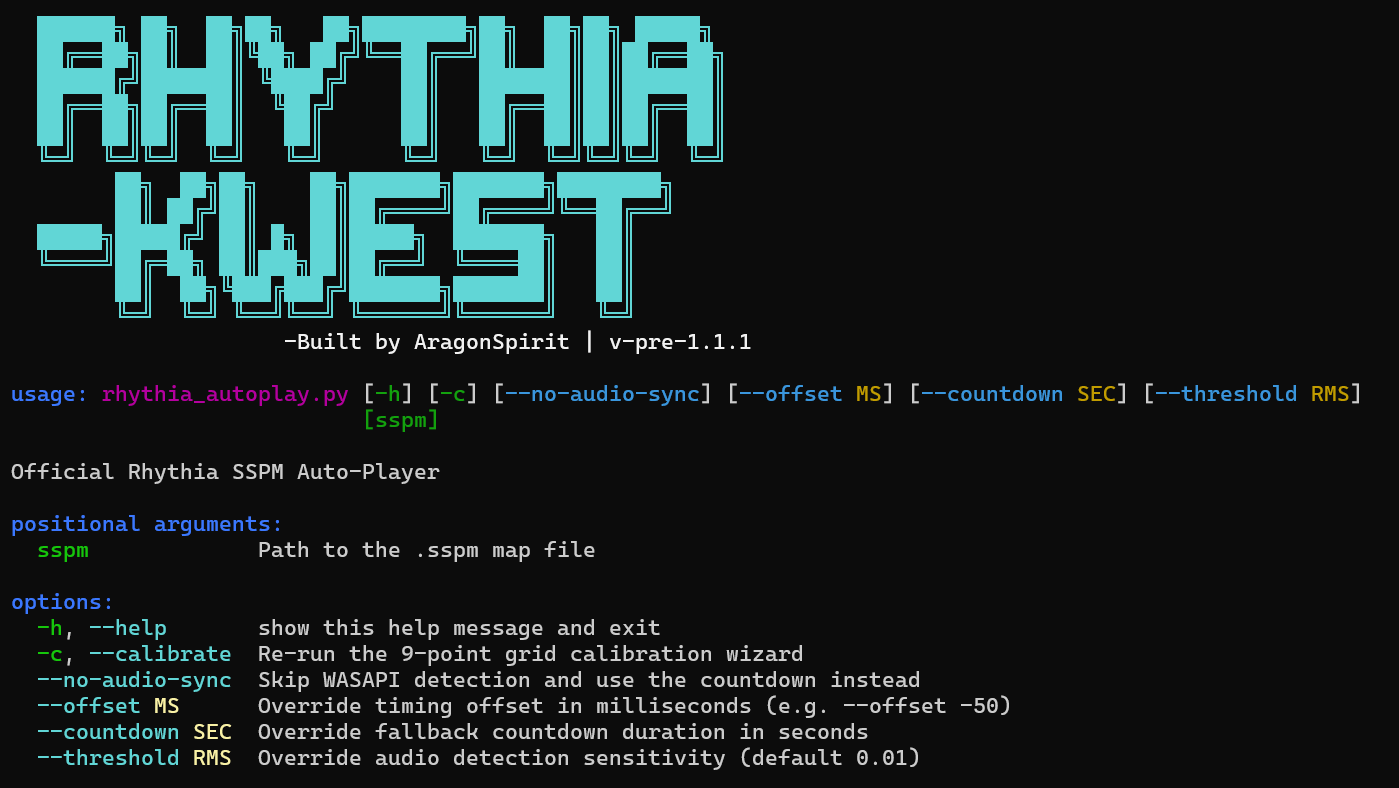
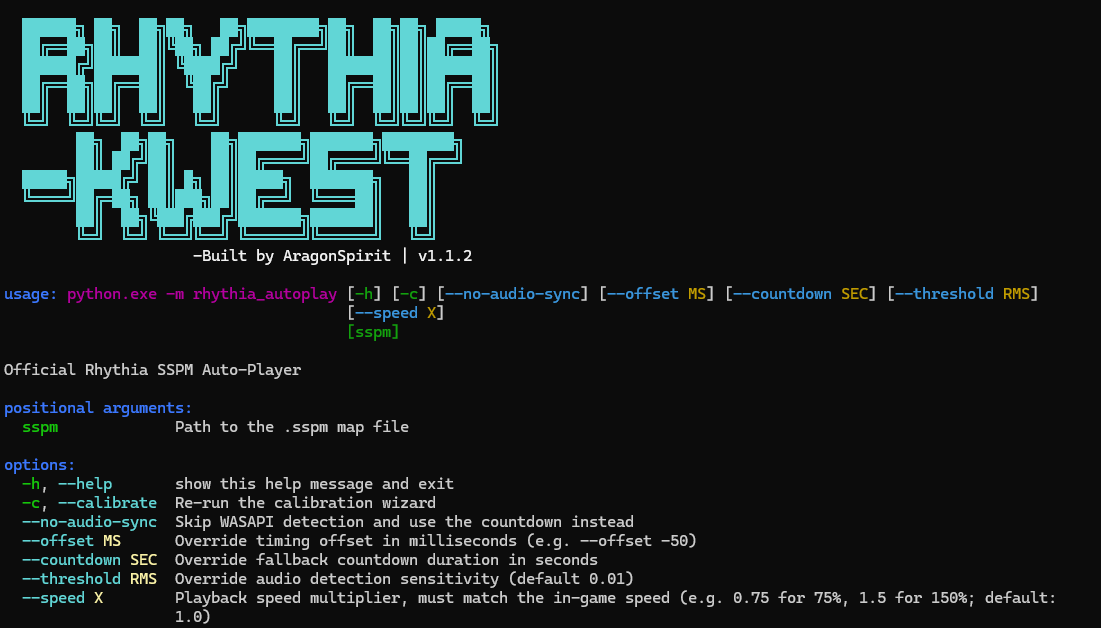
v1.1.2
Added a speed flag

Changed region(s): [[0.0, 0.0, 0.9882, 0.5446], [0.0, 0.6354, 0.9573, 0.9984], [0.0, 0.5748, 0.3088, 0.6354]]

diff --git a/rhythia_autoplay/main.py b/rhythia_autoplay/main.py
@@ -1,9 +1,3 @@
-
-#  ENTRY POINT
-#  Parses CLI arguments, prints the banner, runs calibration if needed,
-#  loads the map, and launches the AutoPlayer.
-
-
 import argparse
 import os
 import sys
@@ -41,7 +35,7 @@ def _print_banner() -> None:
     print(c("  ╚════╝██╔═██╗ ██║███╗██║██╔══╝  ╚════██║   ██║   ", CYAN))
     print(c("        ██║  ██╗╚███╔███╔╝███████╗███████║   ██║   ", CYAN))
     print(c("        ╚═╝  ╚═╝ ╚══╝╚══╝ ╚══════╝╚══════╝   ╚═╝  ", CYAN))
-    print(c("                     -Built by AragonSpirit | v1.1.1", BOLD))
+    print(c("                     -Built by AragonSpirit | v1.1.2", BOLD))
     print()
 
 
@@ -67,6 +61,9 @@ def main() -> None:
                         help="Override fallback countdown duration in seconds")
     parser.add_argument("--threshold", type=float, default=None, metavar="RMS",
                         help="Override audio detection sensitivity (default 0.01)")
+    parser.add_argument("--speed", type=float, default=1.0, metavar="X",
+                        help="Playback speed multiplier, must match the in-game speed "
+                             "(e.g. 0.75 for 75%%, 1.5 for 150%%; default: 1.0)")
     args = parser.parse_args()
 
     _print_banner()
@@ -76,6 +73,10 @@ def main() -> None:
     if args.offset    is not None: cfg["offset_ms"]      = args.offset
     if args.countdown is not None: cfg["countdown"]       = args.countdown
     if args.threshold is not None: cfg["audio_threshold"] = args.threshold
+
+    if args.speed <= 0:
+        print(c(f"\n  [ERROR] --speed must be greater than 0 (got {args.speed}).", RED))
+        sys.exit(1)
 
     # --- Calibration ---
     needs_calib = not os.path.exists(CONFIG_FILE) or not cfg.get("cell_centers")
@@ -124,6 +125,7 @@ def main() -> None:
     print(c(f"    Calibration  : {calib_pts} / 9 points captured", DIM))
     print(c(f"    Audio sync   : {audio_status}", DIM))
     print(c(f"    Timing offset: {cfg['offset_ms']} ms", DIM))
+    print(c(f"    Speed        : {args.speed}x", DIM))
     print(c(f"    Quit: F3  |  Pause / Resume: ESC", DIM))
     print()
 
@@ -137,7 +139,7 @@ def main() -> None:
     # --- Run ---
     player = AutoPlayer(notes, cfg)
     try:
-        player.run(use_audio_sync=not args.no_audio_sync)
+        player.run(use_audio_sync=not args.no_audio_sync, speed=args.speed)
     except KeyboardInterrupt:
         print(c("\n  Interrupted via Ctrl+C.", YELLOW))
     except pyautogui.FailSafeException:

diff --git a/rhythia_autoplay/player.py b/rhythia_autoplay/player.py
@@ -1,9 +1,3 @@
-
-#  AUTO-PLAYER
-#  Handles hotkeys, precise timing (with pause support), sync strategies,
-#  and the main per-note click loop.
-
-
 import threading
 import time
 
@@ -106,7 +100,27 @@ class AutoPlayer:
         print(c("  GO!                  ", GREEN))
         return time.perf_counter()
 
-    def run(self, use_audio_sync: bool = True) -> None:
+    def run(self, use_audio_sync: bool = True, speed: float = 1.0) -> None:
+        """
+        Play the map.
+
+        Parameters
+        ----------
+        use_audio_sync : bool
+            When True, attempt WASAPI loopback detection before falling back
+            to the countdown timer.
+        speed : float
+            Playback speed multiplier.  Must match the in-game speed you set
+            in Rhythia before starting the map.
+            - 1.0  → normal speed (default)
+            - 0.75 → 75 % speed  (slower, notes fire later)
+            - 1.5  → 150 % speed (faster, notes fire earlier)
+            Note timestamps are divided by this value, so the bot fires each
+            click proportionally sooner or later.
+        """
+        if speed <= 0:
+            raise ValueError(f"speed must be > 0, got {speed}")
+
         offset_s = self.cfg["offset_ms"] / 1000.0
 
         # Determine t=0 (the moment the song begins).
@@ -128,7 +142,9 @@ class AutoPlayer:
             if self._stop.is_set():
                 break
 
-            target_perf = start + (ms / 1000.0) + offset_s
+            # Divide the note timestamp by the speed multiplier so that at 2×
+            # a note originally at t=1000 ms fires at t=500 ms, etc.
+            target_perf = start + (ms / 1000.0 / speed) + offset_s
             if not self._wait_until(target_perf):
                 break
 

diff --git a/rhythia_autoplay/coordinates.py b/rhythia_autoplay/coordinates.py
@@ -1,9 +1,4 @@
 
-#  COORDINATE MAPPING
-#  Converts SSPM note coordinates to screen pixel positions.
-
-
-
 def note_to_screen(x: float, y: float, cfg: dict) -> tuple[int, int]:
     """
     Convert an SSPM note coordinate (x, y) to screen pixel coordinates.

diff --git a/rhythia_autoplay/audio.py b/rhythia_autoplay/audio.py
@@ -1,9 +1,3 @@
-
-#  AUDIO LOOPBACK SYNC (WASAPI, Windows)
-#  Detects song start by monitoring system audio via a loopback device.
-#  sounddevice is optional - all public symbols degrade if absent.
-
-
 import threading
 import time
 

diff --git a/rhythia_autoplay/constants.py b/rhythia_autoplay/constants.py
@@ -1,9 +1,4 @@
-
-#  CONSTANTS
-#  Shared colors, grid labels, and difficulty table used across all modules.
-
-
-# --- ANSI colour codes ---
+# --- Color codes ---
 RESET  = "\033[0m"
 BOLD   = "\033[1m"
 DIM    = "\033[2m"

diff --git a/rhythia_autoplay/calibration.py b/rhythia_autoplay/calibration.py
@@ -1,8 +1,3 @@
-
-#  9-POINT CALIBRATION
-#  Interactive wizard that captures the pixel center of each grid cell.
-
-
 import pyautogui
 
 from .constants import BOLD, DIM, GREEN, YELLOW, CELL_LABELS, GRID_DIAGRAM, c

diff --git a/rhythia_autoplay/map_loader.py b/rhythia_autoplay/map_loader.py
@@ -1,8 +1,3 @@
-
-#  MAP LOADER
-#  Reads an SSPM file and returns a sorted list of (x, y, ms) note tuples.
-
-
 import sys
 
 import pysspm_rhythia

diff --git a/rhythia_autoplay/__init__.py b/rhythia_autoplay/__init__.py
@@ -1,4 +1,3 @@
-# rhythia_autoplay package
 # Run with: python -m rhythia_autoplay <map.sspm> [options]
 
 from .main import main

diff --git a/rhythia_autoplay/dpi.py b/rhythia_autoplay/dpi.py
@@ -1,8 +1,3 @@
-
-#  DPI AWARENESS
-#  Must be called before any coordinate is read or written.
-
-
 import ctypes
 
 

diff --git a/rhythia_autoplay/config.py b/rhythia_autoplay/config.py
@@ -1,8 +1,3 @@
-
-#  CONFIG
-#  Manages the persistent JSON configuration file.
-
-
 import json
 import os
 

diff --git a/docs/README.md b/docs/README.md
@@ -23,7 +23,7 @@ Live progress bar:
 ## Features
 
 ### Map Parsing
-Loads any `.sspm` (Sound Space Plus Map) file using the `pysspm-rhythia` library, showing:
+Loads any `.sspm` (Sound Space Plus Map) file, showing:
 - Map name and mapper(s)
 - Difficulty rating
 - Total note count
@@ -33,8 +33,8 @@ Loads any `.sspm` (Sound Space Plus Map) file using the `pysspm-rhythia` library
 ### Grid Calibration Wizard
 On first launch or when passed the `--calibrate` flag, a wizard guides you through aligning the bot to your screen.
 
-### DirectInput Mouse Control
-Mouse movement and clicks are performed via `pydirectinput`, which is better than `Pyautogui` as it bypasses the Windows message queue.
+### Speed Adjustment
+When executing the command, you can pass the flag `--speed` to adjust the speed of the playback to your desired one.
 
 ### Pause & Resume
 You can press **ESC** to pause and ress **ESC** again to resume.
@@ -51,10 +51,11 @@ All settings (grid position, timing offset, countdown duration, hotkeys) are sto
 ---
 ## Changelog
 - **v-1.0.0** - Initial release.
-- **v-pre-1.1.1** - Added audio handling and remaking of calibration system.
+- **v-pre-1.1.1** - Added audio handling and remaking of the calibration system.
 - **v1.1.1** - Modularized code and added QoL feature.
-- **v1.1.2** - *Coming soon*.
-
+- **v1.1.2** - A speed flag has been added to the playback command.
+- **v1.2.0** - *Coming soon*
+ 
 
 ## Requirements
 
@@ -144,4 +145,4 @@ python -m rhythia_autoplay runs/example.sspm --countdown 3
 
 ---
 
-## Built by AragonSpirit - v1.1.1
+## Built by AragonSpirit - v1.1.2
